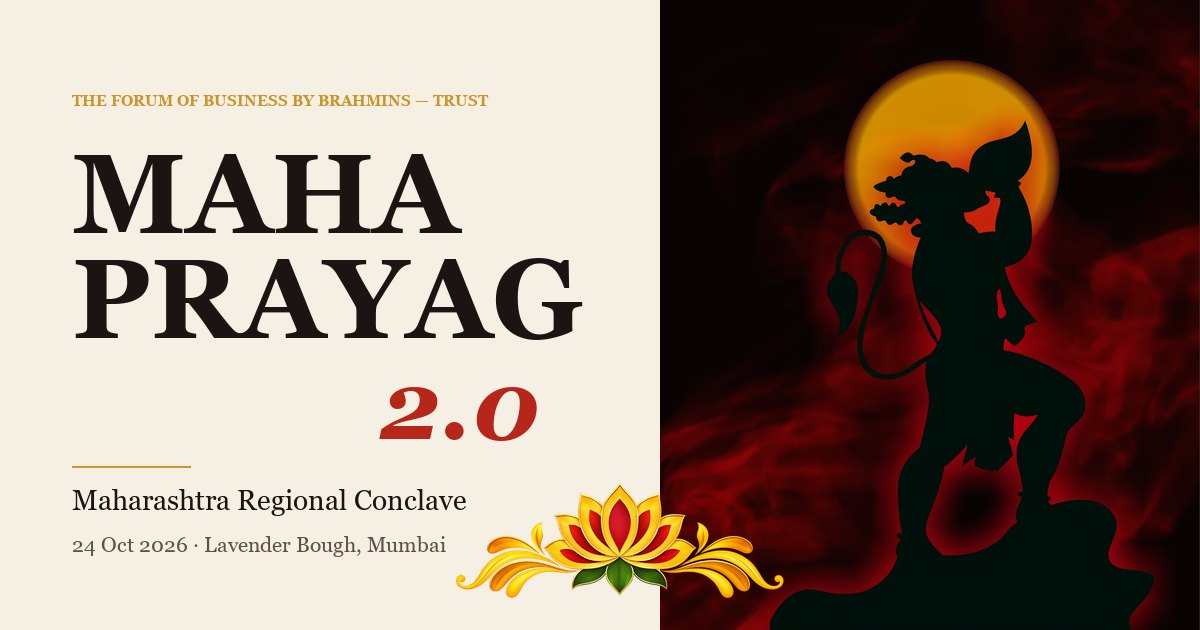
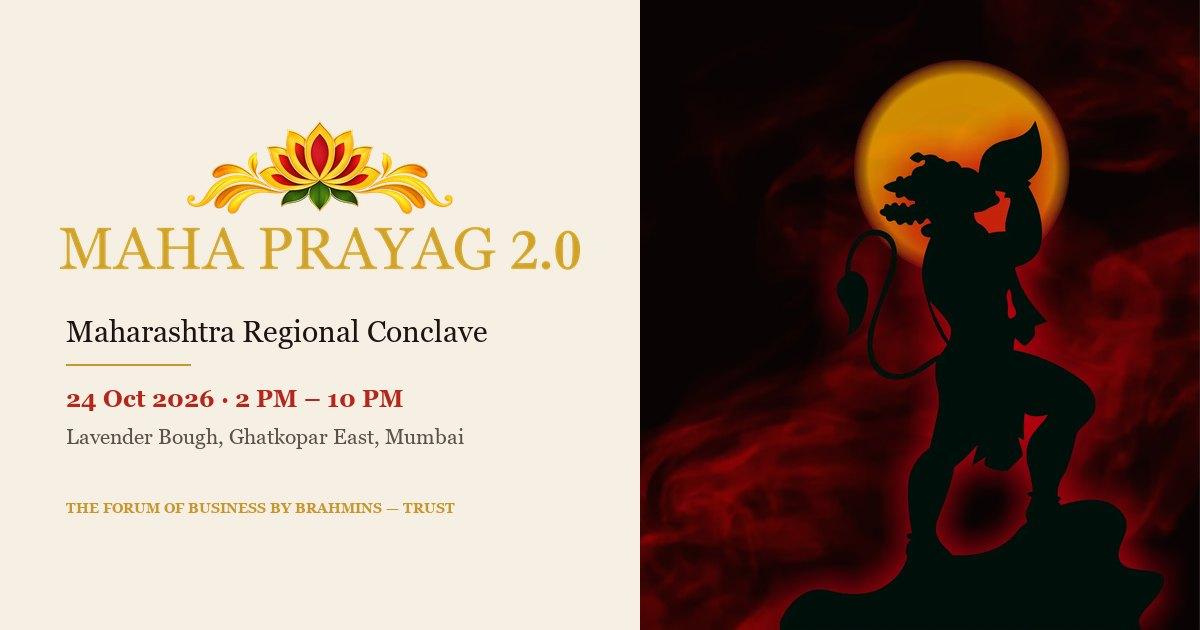
Use the full Maha Prayag lockup in the header, footer and share image

diff --git a/index.html b/index.html
@@ -23,7 +23,7 @@
 <link rel="preload" as="image" imagesrcset="assets/logo-sm.webp 480w, assets/logo.webp 1200w" imagesizes="(max-width: 599px) 64vw, min(420px, 34vw)">
 <link rel="preload" as="image" imagesrcset="assets/hanuman-glow-sm.webp 510w, assets/hanuman-glow.webp 1020w" imagesizes="(max-width: 599px) 50vw, (max-width: 899px) 44vw, 40vw">
 <link rel="stylesheet" href="https://fonts.googleapis.com/css2?family=Fraunces:ital,opsz,wght,WONK@0,9..144,300..700,0;0,9..144,300..700,1;1,9..144,300..700,0;1,9..144,300..700,1&family=DM+Sans:wght@400;500;700&family=Tiro+Devanagari+Sanskrit&display=swap">
-<link rel="stylesheet" href="css/styles.css?v=22">
+<link rel="stylesheet" href="css/styles.css?v=23">
 <script type="application/ld+json">
 {"@context":"https://schema.org","@type":"Event","name":"Maha Prayag 2.0 — Maharashtra Regional Conclave","description":"The Maharashtra Regional Conclave of The Forum of Business By Brahmins — Trust. Speaker sessions, KYT Conclave, high tea and networking, awards and entertainment, dinner.","startDate":"2026-10-24T14:00:00+05:30","endDate":"2026-10-24T22:00:00+05:30","eventStatus":"https://schema.org/EventScheduled","eventAttendanceMode":"https://schema.org/OfflineEventAttendanceMode","image":"assets/og.jpg","location":{"@type":"Place","name":"Lavender Bough","address":{"@type":"PostalAddress","streetAddress":"90 Feet Road, next to BAPS Swaminarayan Sanskar Kendra, Garodia Nagar","addressLocality":"Ghatkopar East, Mumbai","addressRegion":"Maharashtra","addressCountry":"IN"}},"offers":{"@type":"Offer","name":"Delegate Pass","price":"1699","priceCurrency":"INR","availability":"https://schema.org/InStock","validThrough":"2026-10-10T23:59:59+05:30"},"organizer":{"@type":"Organization","name":"The Forum of Business By Brahmins — Trust"}}
 </script>
@@ -46,7 +46,7 @@
 <header class="site-head">
   <div class="bar">
     <a class="brand" href="#top" data-cta="brand-top">
-      <img src="assets/logo-sm.webp" srcset="assets/logo-sm.webp 480w, assets/logo.webp 1200w" sizes="160px" width="480" height="172" alt="Maha Prayag lotus emblem">
+      <img src="assets/logo-lockup-sm.webp" srcset="assets/logo-lockup-sm.webp 520w, assets/logo-lockup.webp 1200w" sizes="(max-width: 599px) 150px, 190px" width="520" height="151" alt="Maha Prayag 2.0">
       <img class="bbb" src="assets/logo-bbb.webp" width="88" height="88" alt="BBB Trust — The Forum of Business by Brahmins">
     </a>
     <nav class="nav" aria-label="Primary">
@@ -321,7 +321,7 @@
   <div class="smoke-wrap" aria-hidden="true"><div class="smoke smoke-b"></div></div>
   <div class="wrap">
     <div class="foot-close reveal rise">
-      <img src="assets/logo-sm.webp" srcset="assets/logo-sm.webp 480w, assets/logo.webp 1200w" sizes="(max-width: 599px) 60vw, 260px" width="480" height="172" alt="" loading="lazy">
+      <img src="assets/logo-full.webp" width="1200" height="420" sizes="(max-width: 599px) 80vw, 420px" alt="Maha Prayag 2.0 — The ultimate confluence of minds, networks and growth." loading="lazy">
       <p class="closing">See you at Maha Prayag.</p>
     </div>
     <div class="foot-cols">

diff --git a/css/styles.css b/css/styles.css
@@ -55,7 +55,7 @@ section{scroll-margin-top:106px}
 .bar{pointer-events:auto;display:flex;align-items:center;gap:16px;height:66px;max-width:1320px;margin:0 auto;padding:0 24px;border:1px solid transparent;border-radius:999px;transition:max-width .35s var(--ease),background-color .35s,border-color .35s,box-shadow .35s,padding .35s}
 .is-condensed .bar{max-width:980px;background:rgba(246,239,227,.84);-webkit-backdrop-filter:blur(14px);backdrop-filter:blur(14px);border-color:var(--line);box-shadow:0 12px 36px -14px rgba(27,20,18,.3);padding:0 8px 0 18px}
 .brand{display:flex;align-items:center;gap:0;min-height:44px;text-decoration:none;color:var(--ink)}
-.brand img{height:54px;width:auto;margin-right:14px}
+.brand img{height:56px;width:auto;margin-right:14px}
 .brand .bbb{height:54px;width:54px;margin:0;border-radius:50%;box-shadow:0 0 0 2px rgba(246,239,227,.9)}
 .nav{margin:0 auto}
 .nav ul{display:flex;gap:2px;list-style:none;margin:0;padding:3px;border-radius:999px;background:var(--ivory);border:1px solid var(--line);box-shadow:0 8px 24px -16px rgba(27,20,18,.35);transition:background-color .35s,border-color .35s,box-shadow .35s}
@@ -273,7 +273,7 @@ address{font-style:normal;margin:0 0 12px;color:var(--ink-soft);line-height:1.55
 /* footer */
 .foot{padding:calc(var(--gap) + 24px) 0 28px}
 .foot-close{text-align:center;margin-bottom:72px}
-.foot-close img{width:min(260px,60vw);margin:0 auto;filter:drop-shadow(0 0 24px rgba(228,184,92,.35))}
+.foot-close img{width:min(420px,80vw);height:auto;margin:0 auto 8px;filter:drop-shadow(0 0 24px rgba(228,184,92,.35))}
 .closing{margin:24px 0 0;font:500 clamp(2.4rem,5vw,4.6rem)/1.05 var(--display);letter-spacing:-.015em;font-variation-settings:"opsz" 144}
 .foot-cols{display:grid;grid-template-columns:1.5fr .9fr 1.2fr;gap:32px;padding:44px 0;border-top:1px solid var(--line-e);border-bottom:1px solid var(--line-e)}
 .foot-cols p{margin:0;font-size:.95rem;line-height:1.6}
